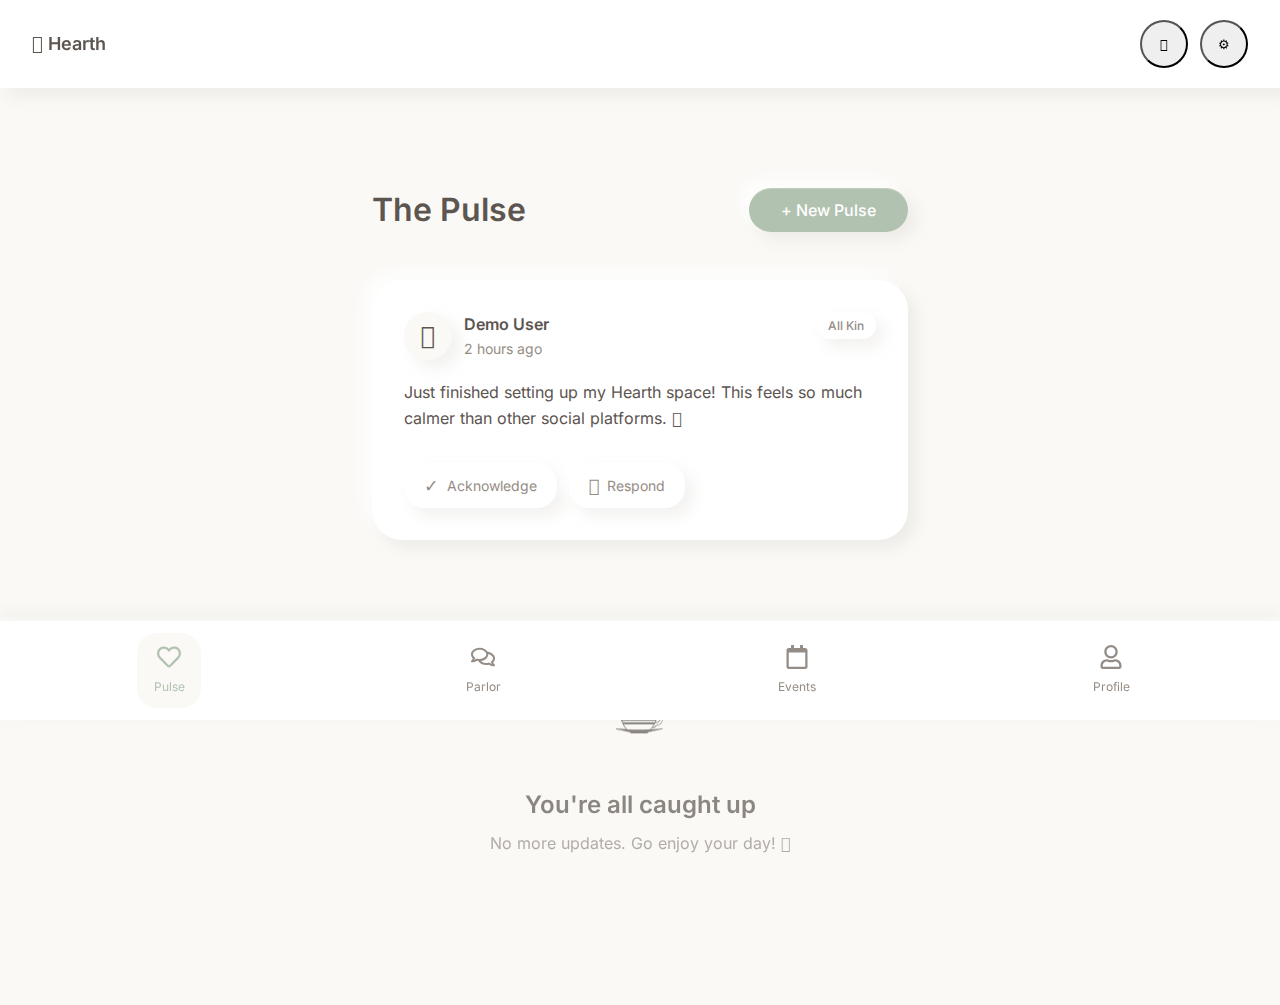
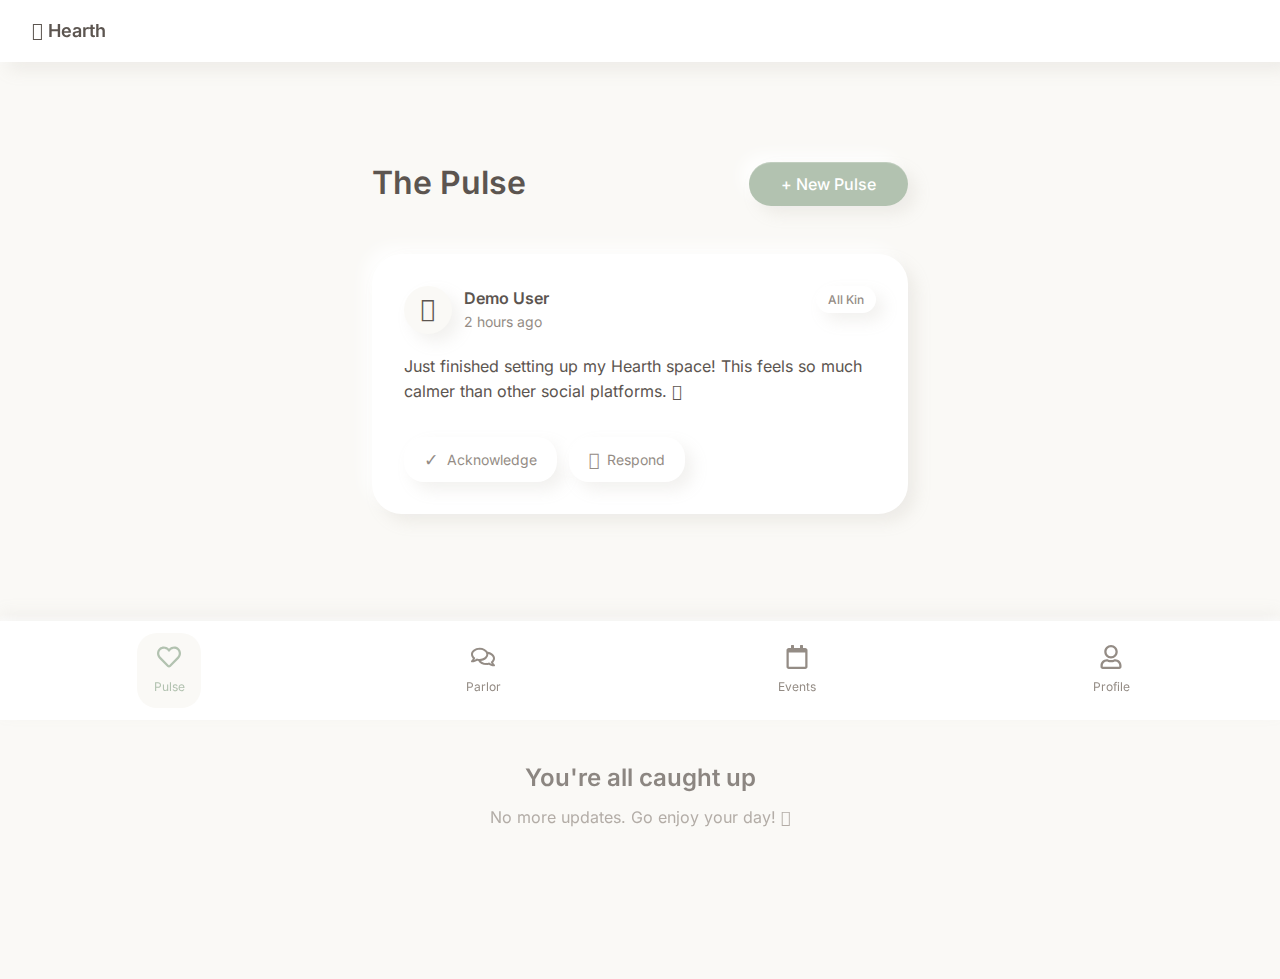
Remove top-right navigation buttons from Pulse page
- Removed `.nav-right` containing sunset and settings buttons from `app.html` to prevent layout issues with the bottom navbar.

diff --git a/app.html b/app.html
@@ -25,14 +25,6 @@
         <div class="nav-left">
             <h1 class="nav-logo">🌿 Hearth</h1>
         </div>
-        <div class="nav-right">
-            <button class="btn-icon" id="sunset-toggle" title="Toggle Sunset Timer">
-                🌙
-            </button>
-            <button class="btn-icon" id="settings-btn" title="Settings">
-                ⚙
-            </button>
-        </div>
     </nav>
 
     <!-- Main Content Area -->
